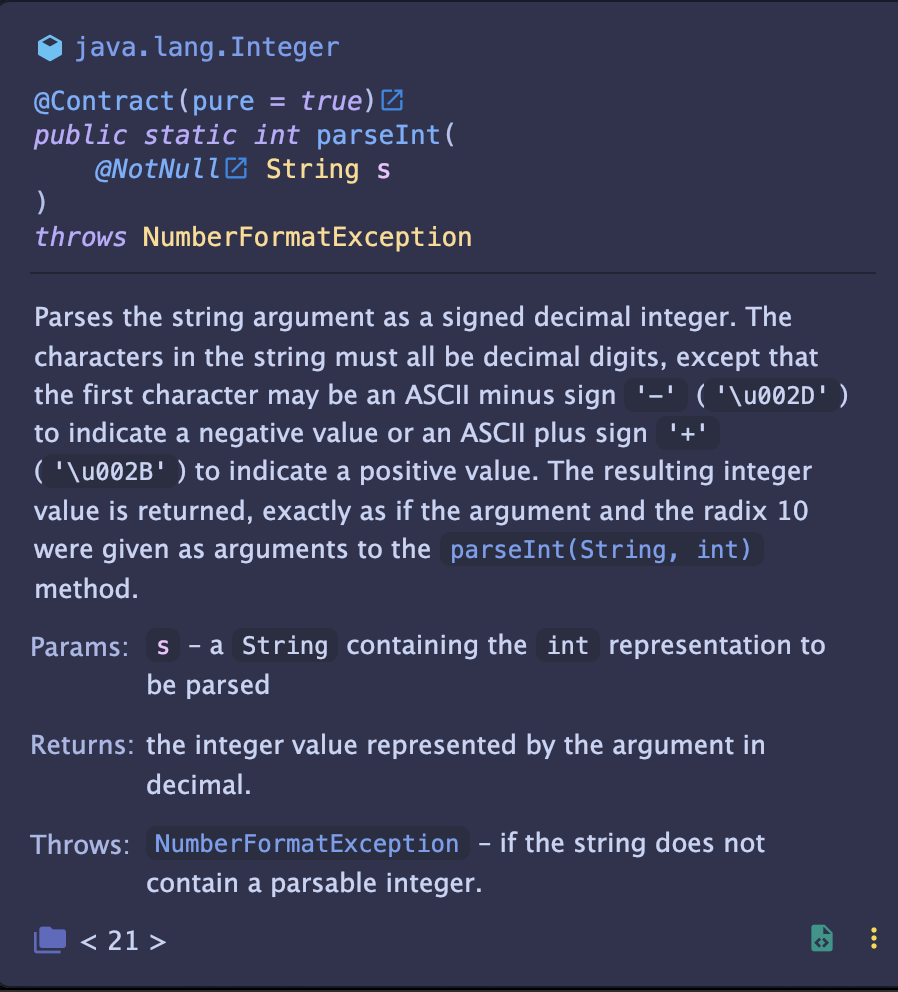
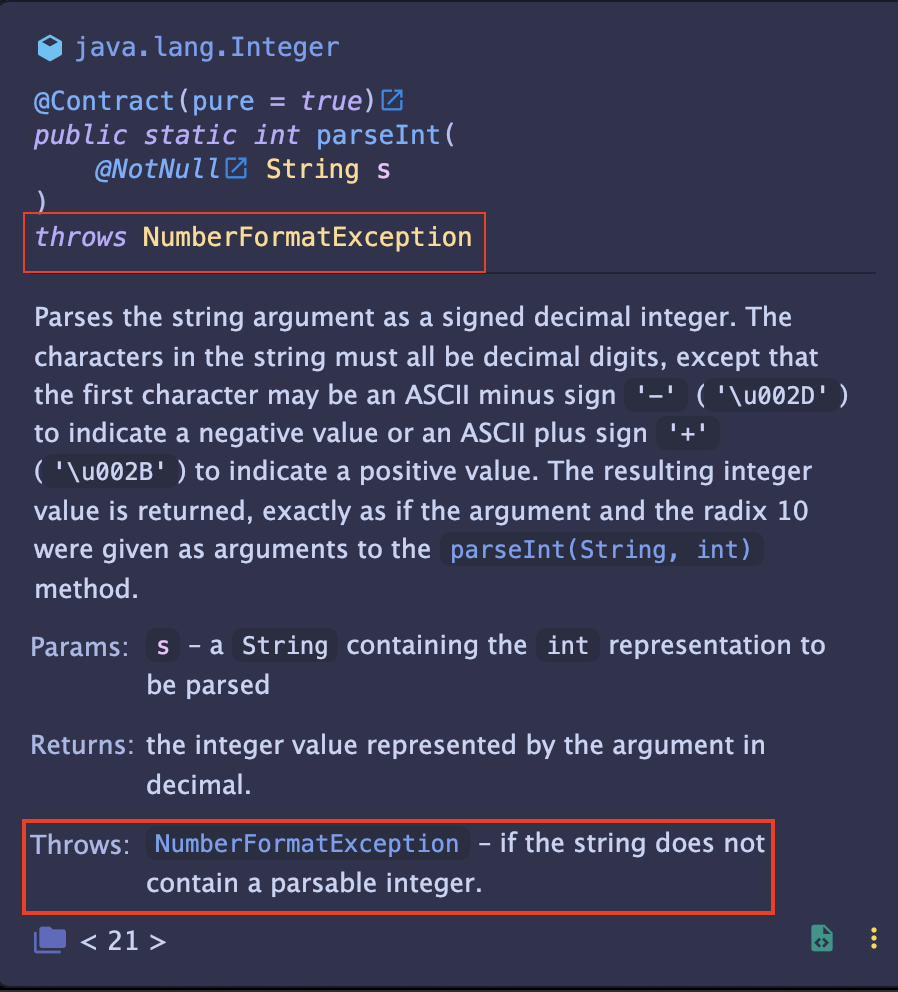
docs: 3주차 미션코스 articles 작성
참고 자료 및 3주차 명세서 작성

Changed region(s): [[0.0312, 0.8125, 0.8731, 0.9375], [0.0, 0.8438, 0.0312, 0.9062]]

diff --git a/articles/feedback.md b/articles/feedback.md
@@ -1,0 +1,90 @@
+# 공통 피드백
+여러분들의 코드를 한번 쭈욱 살펴봤어요.
+공통적으로 한번 고민해보면 좋을 거 같은 키워드를 같이 알아보아요.
+(추가로 3주차까지 계속 사용할 코드이기 때문에 리팩토링 해보는 것도 괜찮을거 같네요!)
+
+## 불변성(NOT DONE)
+불변성은 코드의 버그를 줄일 뿐만 아니라, 개발자가 코드를 편하게 짜게 도와줘요.  
+
+예시와 함께 알아볼께요.
+```java
+    public class Character {
+        // ...
+        private List<Skill> skills;
+    }
+    
+    public class Skill {
+        private int min;
+        private int max;
+        private String name;
+        // ...
+    }
+```
+
+
+## interface
+인터페이스를 객체의 협력 관계를 나타낼 수 있는 좋은 수단이라고 소개했어요.  
+간단하게 캐릭터와 스킬 객체 간의 관계로 생각해볼께요.  
+간단한 협력관계를 떠올려보면, `캐릭터가 스킬을 사용하여 데미지를 입힌다` 가 있을거에요.  
+즉, 스킬은 캐릭터에게 `데미지를 알려줘야하는 책임` 이 부여돼요.  
+반대로 캐릭터는 `데미지를 입는다는 책임` 이 있을 거에요.  
+객체가 다른 객체로부터 책임을 요구받아 구현을 해야하는 의무가 발생했어요.  
+
+이런 식으로 다른 객체로부터 요청받은 책임들을 나열하는 곳을 `인터페이스`라고 생각하면 좋을 거 같아요.  
+반대로, 객체 내부에서의 작업, 예컨데 검증 로직이라든가, 객체의 util 함수의 경우는 적을 필요가 없을거 같아요.
+
+## getter, setter
+getter, setter 는 최대한 지양해야 해요.  
+만약 둘을 모두 사용한다면, 그 멤버 변수는 `public` 과 무슨 차이점이 있나요?  
+
+객체지향의 중요한 특성 중 `캡슐화` 라는 용어를 들어봤을 거에요.  
+캡슐화를 통해 객체의 경계를 분명히 하여, 객체 내부의 구현의 자율성을 보장해요.  
+다시 말하면, 객체의 내부 구현은 신경쓰지 않겠다는 의미에요.  
+대신 원하는 데이터를 주기만 하면 된다는 의미이죠.  
+  
+만약 객체(A)에서 다른 객체(B)의 `getter` 를 사용한다고 해볼께요.  
+근데, B 에서 A의 getter 를 왜 사용하나요?  
+A 의 책임을 B 에서 하고 있진 않나요?  
+
+예를 들어, `main` 에서 `Character` 객체에서 사용가능한 `Skill` 들만 필요하다고 해볼께요.  
+이 때, 이 로직을 `main` 이 `getSkills` 를 호출해서 일일이 검증해야 할까요?  
+그보다는 `Character` 내부에서 `availableSkills` 라는 메소드를 만드는게 더 좋아보여요.  
+이를 통해 불필요한 멤버변수 노출을 막고, 좀 더 직관적인 메소드명이 나오게 되었어요.  
+  
+`setter` 의 경우도 비슷합니다. 책임을 전가하고 있진 않은지 주의해야해요.  
+또한 정말 필요하다면, 그 목적이 분명하도록 메서드명을 지어야해요.  
+  
+그래서 제가 추천하는 방법은 일단 최대한 `getter`, `setter` 를 쓰지 않으려고 노력하는 것입니다.   
+정말 고민해도 필요하다면, 사용할 순 있습니다. 뭐든지 100% 네버는 없으니까요.  
+하지만, 고민하다보면 대부분의 경우는 필요하지 않을 거에요.
+
+## abstract class vs interface
+사실 저도 최근에 알게 된 문법인데요.   
+`abstract class` 가 `interface` 를 대체할 수 있지 않을까? 하는 질문을 어떤 분께 받았어요.  
+이에 대해 찾아본 자료와 의견을 공유해보면 좋을거 같아서 글로 남겨보아요.  
+간단히 문법적으로 설명하면, `abstract class` 는 공통 멤버 변수를 정의할 수 있어요.  
+반면에 `interface` 에서 변수를 정의하면 그것은 상수로서 작동해요.  
+
+간단한 예시를 들어볼께요.
+```java
+    abstract class Animal {
+        private int leg;
+        // ...
+    }
+    
+    public class lion extends Animal {
+        // leg 멤버 변수가 정의되어 있음
+        // ...
+    }
+    public class tiger extends Animal {
+        // leg 멤버 변수가 정의되어 있음    
+        // ...
+    }
+```
+하지만 `interface` 는 저러한 기능을 지원하진 않아요.  
+일일이 `private int leg` 를 선언해줘야 합니다.  
+자세한 이야기는 [abstract vs interface](https://inpa.tistory.com/entry/JAVA-%E2%98%95-%EC%9D%B8%ED%84%B0%ED%8E%98%EC%9D%B4%EC%8A%A4-vs-%EC%B6%94%EC%83%81%ED%81%B4%EB%9E%98%EC%8A%A4-%EC%B0%A8%EC%9D%B4%EC%A0%90-%EC%99%84%EB%B2%BD-%EC%9D%B4%ED%95%B4%ED%95%98%EA%B8%B0#%EC%B6%94%EC%83%81_%ED%81%B4%EB%9E%98%EC%8A%A4_%EC%A0%95%EB%A6%AC)
+를 참고하면 좋을거 같아요.  
+
+제 개인적인 감상은 `abstract` 문법은 추후 리팩토링에서, 혹은 구현을 하면서 고려해야 할 사항인 것 같아요.  
+전체적인 객체 설계는 `interface` 를 통해서, 구현하면서 중복되는 코드는 `abstract` 를 통해 줄일 수 있을 거 같다고 생각했어요.

diff --git a/articles/try_catch.md b/articles/try_catch.md
@@ -1,0 +1,53 @@
+# try-catch 문법
+자바는 기본적으로 예외 처리를 `exception` 을 통해 다뤄요.  
+자세한 내용은 다음 글을 참고하면 좋을 거 같아요.  
+
+> [자바의 에러](https://inpa.tistory.com/entry/JAVA-%E2%98%95-%EC%97%90%EB%9F%ACError-%EC%99%80-%EC%98%88%EC%99%B8-%ED%81%B4%EB%9E%98%EC%8A%A4Exception-%F0%9F%92%AF-%EC%B4%9D%EC%A0%95%EB%A6%AC)  
+> [에러 처리: try-catch](https://inpa.tistory.com/entry/JAVA-%E2%98%95-%EC%98%88%EC%99%B8-%EC%B2%98%EB%A6%ACException-%EB%AC%B8%EB%B2%95-%EC%9D%91%EC%9A%A9-%EC%A0%95%EB%A6%AC)
+
+저러한 에러들은 `try-catch` 라는 문법을 이용하여, 개발자가 예외 처리를 해요.  
+이 때, 그 자리에서 바로 처리할지, 아니면 호출하는 함수(caller) 에서 처리할지 결정해줘야해요.  
+간단한 예시를 볼께요.  
+```java
+    public int parseIntWithNoError(String str) {
+    try {
+        return Integer.parseInt(str);
+    } catch(NumberFormatException e) {
+        return 0;
+    }
+}
+```
+원래 `parseInt` 는 `NumberFormatException` 예외를 던지는 함수예요.  
+intellij 에서 함수에 마우스를 갖다대면 아래와 같은 이미지가 나와요.  
+![parseInt 설명 이미지](./resources/parseInt_explanation.png)
+어떤 에러를 던지는지 미리 알 수 있어요.
+
+이 에러는 잘못된 형식을 입력할 시, 0 이라는 기본값을 반환하도록 되어 있어요.  
+이처럼 기본값 등으로 에러를 정정할 수도, 에러를 발생시켜 시스템을 정지시킬 수도 있어요.  
+
+하지만, 한편으로는 에러가 발생하는 곳에서 산발적으로 처리하면 불편하다고 여길 수도 있어요.  
+한 곳에 모아서 처리하고 싶을 때는 `throws` 를 사용하면 됩니다.  
+위의 예시를 조금 변형해볼께요.
+```java
+    public int parseIntThrowError(String str) throws NumberFormatException{
+        return Integer.parseInt(str);
+}
+```
+(사실 `Integer.parseInt` 메소드랑 큰 차이는 없지만 예시로서 봐주세요!)  
+이제 이 함수에서의 에러처리에 대한 책임은 호출자 메소드(caller)로 넘어갑니다.  
+
+예컨데 다음과 같아요.
+```java
+    public static void main(String[] args) {
+        String str = "100";
+        try {
+            parseIntThrowError(str);
+        } catch(NumberFormatException e) {
+            System.out.println(0);
+        }
+    }
+```
+`parseIntThrowError` 에서 처리하지 않고, 메소드를 부른 `main` 함수에서 처리하도록 할 수 있어요.  
+이런 식으로 에러를 한 곳에서 처리하도록, 에러 처리의 책임을 상위 메소드에게 부여하는 역할을 해줘요.
+
+이렇게 적절한 에러 표시와 처리를 통해 예외상황을 잘 처리할 수 있답니다.

diff --git a/3rd-spec.md b/3rd-spec.md
@@ -1,0 +1,54 @@
+# 3주차 미션코스
+
+## 학습목표
+* DB 와 연결해보기
+* 리팩토링 해보기 -> [1주차 공통 피드백 참고하기](./articles/feedback.md)
+
+## 진행방식
+* [기존에 포크한 레포지토리](https://github.com/GDSC-Hongik/2024-2-mission-course-java)를 pull 을 통해 업데이트하여 진행한다.
+* 포크한 레포지토리에서 자신의 깃허브 이름으로 된 브렌치를 만들어서 진행한다.
+* 아래 주어진 명세에 맞게 구현한다.
+* 주어지지 않은 내용은 스스로 판단하여 구현한다.
+
+## 제출 방법
+* 자신의 이름으로 된 브렌치를 포크한 레포지토리의 main 브렌치에 PR을 날린다.
+
+## 턴제 게임
+### 진행 요구 사항
+* 기능 목록에 따라 커밋 혹은 브렌치를 나눈다.
+    * 한번에 `git add .` 을 통해 커밋하는 것은 금지한다.
+* 이번 과제부터는 `JPA` 을 사용한다.
+    * `build.gradle` 을 수정하여 `JPA` 의존성을 설치하고 시작한다.
+* 2주차 미션코스의 코드를 재활용하여 진행한다.(코드 수정은 허용한다.)
+* 게임 진행 중 서비스가 꺼지더라도, 재부팅시 이어서 진행가능해야 한다.
+  * 즉, DB 에 필요한 정보들을 저장해두고, 게임이 종료시에만, 데이터가 리셋된다.
+
+### 기능 요구 사항
+* 기존 2주차 까지의 명세를 따르나, 아래의 변경 사항이 추가된다.
+* 캐릭터의 정보에 `job` 이 추가된다.
+  * `job` 에 따라 사용가능한 스킬들이 고정된다.
+* `job` 에 따라, 기본 체력, 기본 마나가 주어진다.
+* 사용자로부터 `레벨`을 입력받아 다음과 같은 수식으로 체력과 마나가 결정된다.
+  * 체력 = 기본체력 + 레벨 * 10
+  * 마나 = 기본 마나 + 마나 * 5
+* 사용자가 지정된 형식을 지키지 않은 입력을 했을 경우, `400 Bad Request` 에러를 반환한다.
+* 존재하지 않는 직업을 골랐을 경우, `404 Not Found` 에러를 반환한다.
+
+### 입력
+설계와 구현에 따라 엔드포인트, 경로 매개변수, request body, query string 등 다양하게 활용한다.  
+단, 캐릭터의 정보를 입력 받을 때는, `이름`, `직업`, `레벨` 을 입력받아야한다.
+> 예시 (1주차 과제의 형식을 이용할 경우)  
+> `알파카,기사,10`
+>   
+> 예시(json 형식일 경우)
+> ```json
+> {
+>   "name": "알파카",
+>   "job": "기사",
+>   "level": 10
+> }
+> ```
+ 
+
+### 출력
+구현에 따라 response body 에 표현한다.

diff --git a/articles/enum.md b/articles/enum.md
@@ -1,0 +1,34 @@
+# enum
+java 의 enum 기능은 강력해요.  
+생각보다 다양한 기능을 할 수 있고, 그만큼 복잡해요.  
+한번 알아봅시다.  
+
+기본적인 문법은 다음 자료를 확인해주세요!  
+> [enum 기초와 응용](https://inpa.tistory.com/entry/JAVA-%E2%98%95-%EC%97%B4%EA%B1%B0%ED%98%95Enum-%ED%83%80%EC%9E%85-%EB%AC%B8%EB%B2%95-%ED%99%9C%EC%9A%A9-%EC%A0%95%EB%A6%AC#enum_%EC%84%A0%EC%96%B8)  
+
+enum 의 예시로 에러 메시지를 한 곳에서 관리할 수 있어요.
+아래의 예시를 한번 볼께요.
+```java
+    public enum Error {
+        FILE_NOT_FOUND("file 경로를 찾을 수 없습니다."),
+        FILE_FORMAT_NOT_MATCH("file 의 형식이 올바르지 않습니다."),
+        INPUT_WRONG_INPUT("잘못된 입력입니다. 다시 입력해 주세요."),
+        PRODUCT_EXCEEDED("재고 수량을 초과하여 구매할 수 없습니다. 다시 입력해 주세요.")
+        ;
+
+        private final String message;
+    
+        Error(String message) {
+            String prefix = Config.ERROR_PREFIX; // == [ERROR]
+            this.message = prefix + " " + message;
+        }
+        public String message() {
+            return message;
+        }
+    }
+```
+위와 같이 작성함으로서, 에러 메세지를 일괄적으로 관리할 수 있었어요.
+`Error.FILE_NOT_FOUND` 로 호출된 메세지는 모두 동일한 메세지를 갖고, 변경에도 용이해요.  
+또한, 어떤 에러들이 있는지도 한 곳에서 쉽게 확인할 수 있다는 장점이 있어요.  
+
+이 외에도 에러에 따른 상태코드, 기본값 등 다양한 설정에 활용할 수 있어요.
